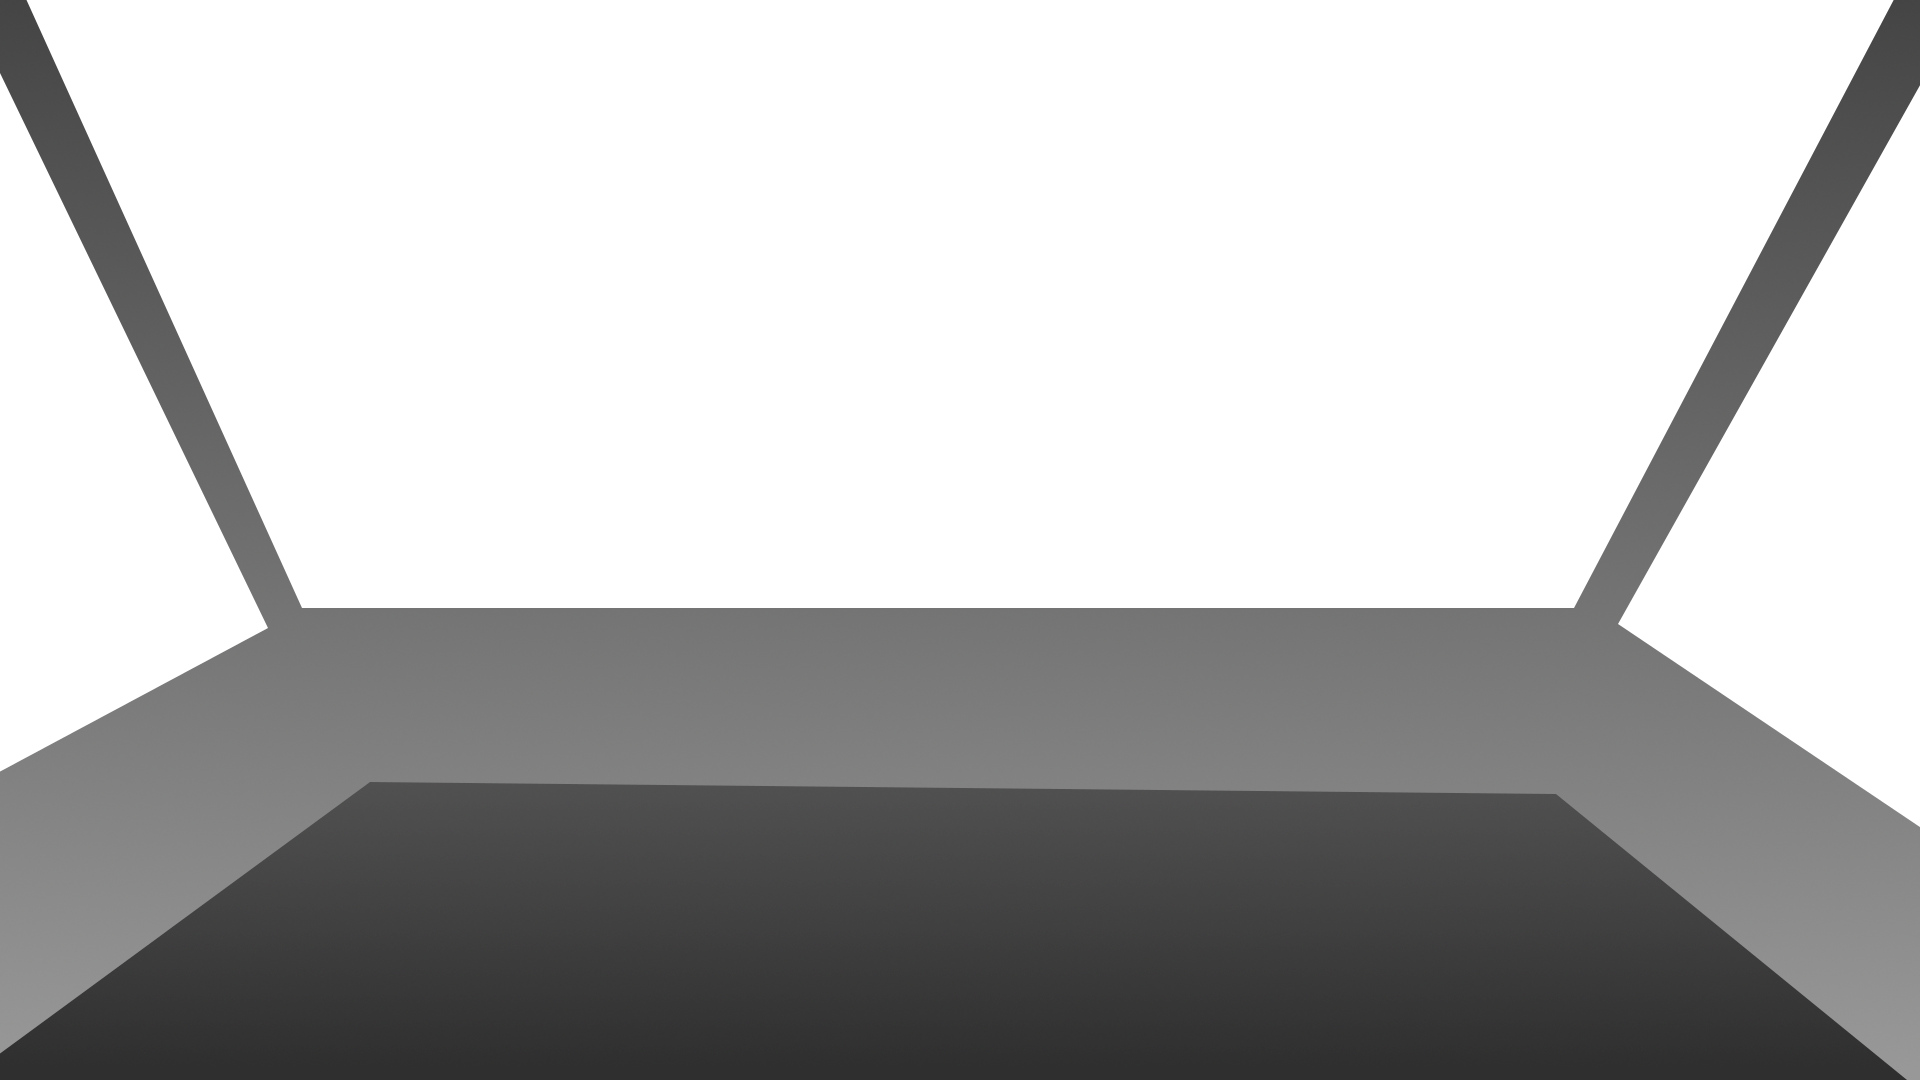
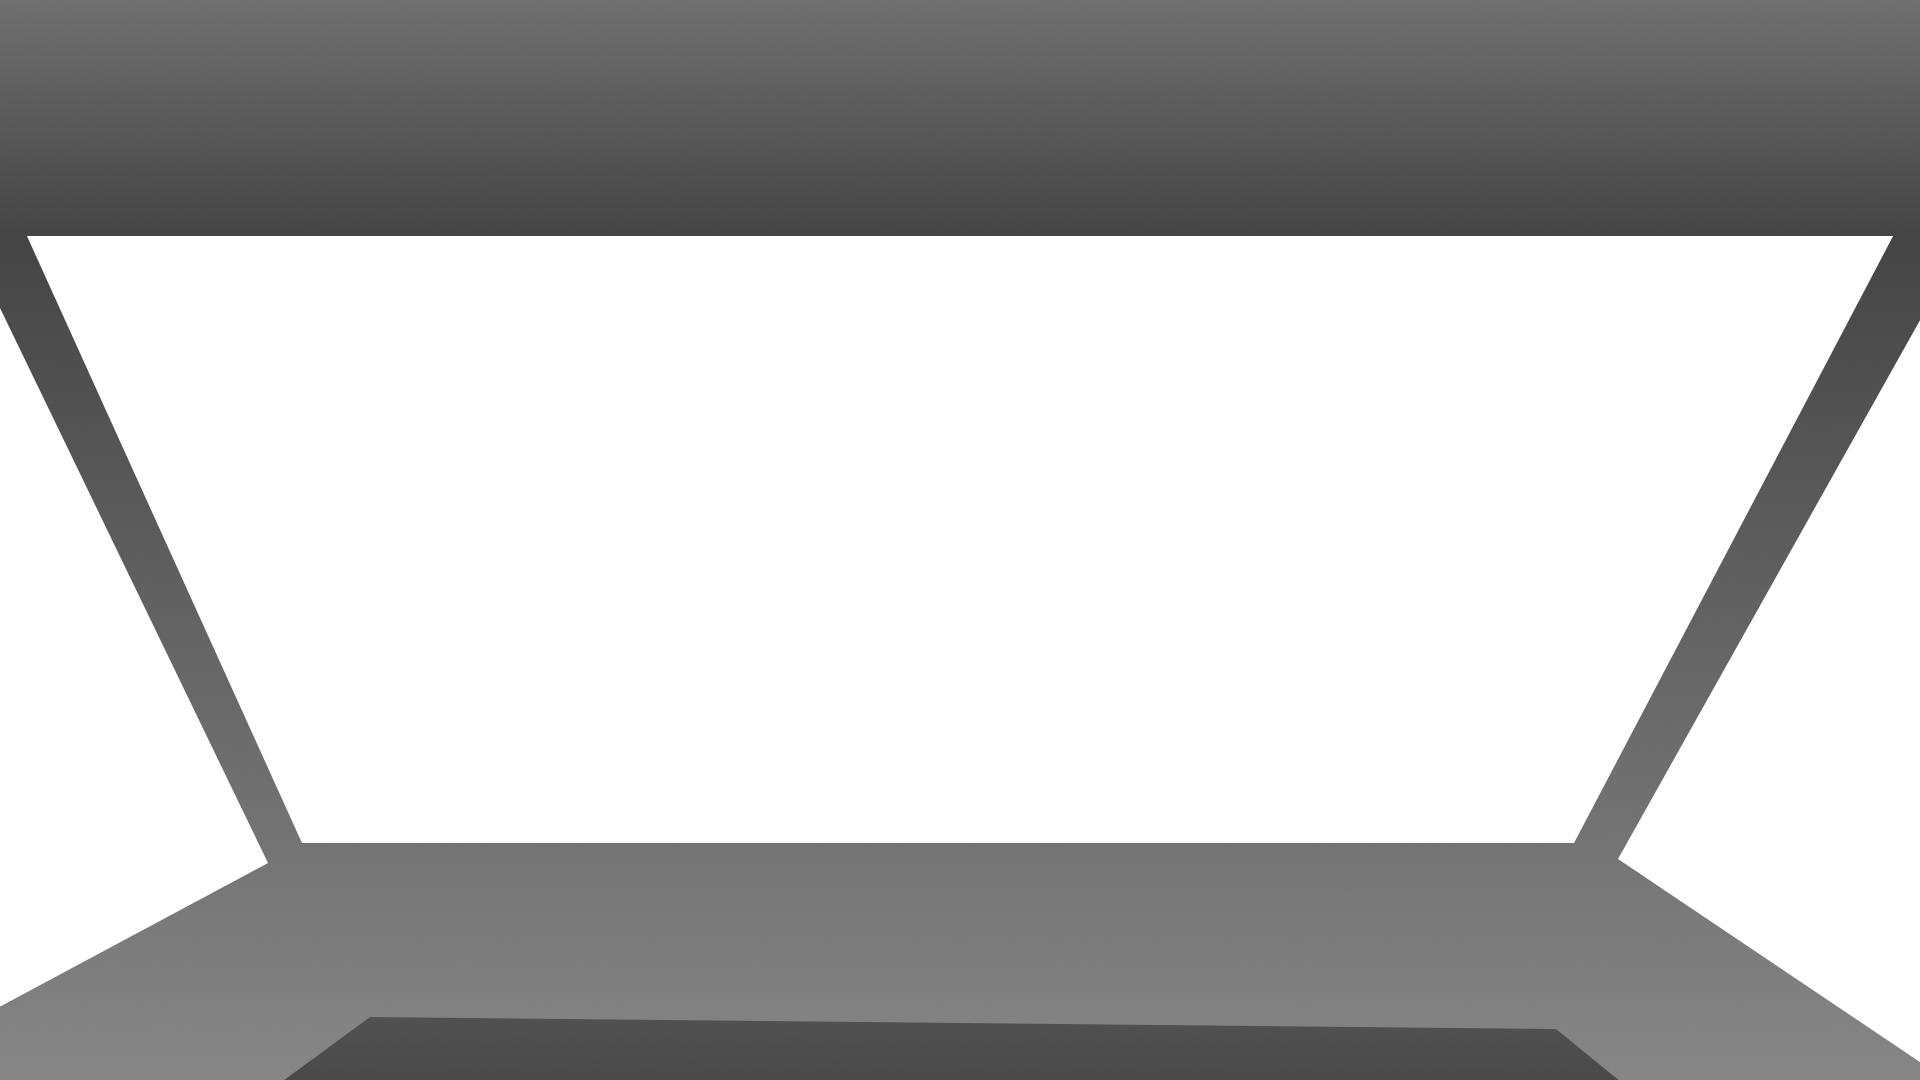
separating camera_glop and player_glop

diff --git a/kivyglops.py b/kivyglops.py
@@ -114,6 +114,19 @@ class KivyGlop(PyGlop, Widget):
         #self._scale_instruction.origin = self._pivot_point
         self._translate_instruction = Translate(0, 0, 0)
         self._color_instruction = Color(1.0, 1.0, 1.0, 1.0)  # TODO: eliminate this in favor of canvas["mat_diffuse_color"]
+    
+    def __str__(self):
+        return type(self) + " named " + str(self.name) + " at " + \
+               str(self._translate_instruction.xyz)
+
+    #"Called by the repr() built-in function to compute the "official"
+    # string representation of an object. If at all possible, this
+    # should look like a valid Python expression that could be used to
+    # recreate an object..."
+    #   - <https://docs.python.org/3/reference/datamodel.html#customization>
+    def __repr__(self):
+        return "KivyGlop(name=" + str(self.name) + ", location=" + \
+               str(self._translate_instruction.xyz) + ")"
 
     def copy(self):
         new_material_method = None
@@ -133,6 +146,34 @@ class KivyGlop(PyGlop, Widget):
         target._color_instruction = Color(self._color_instruction.r, self._color_instruction.g, self._color_instruction.b, self._color_instruction.a)
         return target
         
+    def rotate_camera_relative(self, angle, axis_index):
+        #TODO: delete this method and see solutions from http://stackoverflow.com/questions/10048018/opengl-camera-rotation
+        #such as set_view method of https://github.com/sgolodetz/hesperus2/blob/master/Shipwreck/MapEditor/GUI/Camera.java
+        self.rotate_relative_around_point(self.camera_glop, angle, axis_index, self.camera_glop._translate_instruction.x, self.camera_glop._translate_instruction.y, self.camera_glop._translate_instruction.z)
+
+    def rotate_player_relative(self, angle, axis_index):
+        #TODO: delete this method and see solutions from http://stackoverflow.com/questions/10048018/opengl-camera-rotation
+        #such as set_view method of https://github.com/sgolodetz/hesperus2/blob/master/Shipwreck/MapEditor/GUI/Camera.java
+        self.rotate_relative_around_point(self.player_glop, angle, axis_index, self.player_glop._translate_instruction.x, self.player_glop._translate_instruction.y, self.player_glop._translate_instruction.z)
+
+    def rotate_relative_around_point(self, this_glop, angle, axis_index, around_x, around_y, around_z):
+        if axis_index == 0:  #x
+            # += around_y * math.tan(angle)
+            this_glop._rotate_instruction_x.angle += angle
+            # origin_distance = math.sqrt(around_z*around_z + around_y*around_y)
+            # this_glop._translate_instruction.z += origin_distance * math.cos(-1*angle)
+            # this_glop._translate_instruction.y += origin_distance * math.sin(-1*angle)
+        elif axis_index == 1:  #y
+            this_glop._rotate_instruction_y.angle += angle
+            # origin_distance = math.sqrt(around_x*around_x + around_z*around_z)
+            # this_glop._translate_instruction.x += origin_distance * math.cos(-1*angle)
+            # this_glop._translate_instruction.z += origin_distance * math.sin(-1*angle)
+        else:  #z
+            #this_glop._translate_instruction.z += around_y * math.tan(angle)
+            this_glop._rotate_instruction_z.angle += angle
+            # origin_distance = math.sqrt(around_x*around_x + around_y*around_y)
+            # this_glop._translate_instruction.x += origin_distance * math.cos(-1*angle)
+            # this_glop._translate_instruction.y += origin_distance * math.sin(-1*angle)
 
     def new_glop(self):
         #return PyGlops.new_glop(self)
@@ -662,14 +703,14 @@ class KivyGlops(PyGlops):
         if self.player1_controller.get_pressed(self.ui.get_keycode("w")):
             if self._fly_enable:
                 #intentionally use z,y:
-                moving_z, moving_y = get_rect_from_polar_rad(1.0, self.camera_glop._rotate_instruction_x.angle)
+                moving_z, moving_y = get_rect_from_polar_rad(1.0, self.player_glop._rotate_instruction_x.angle)
             else:
                 moving_z = 1.0
 
         if self.player1_controller.get_pressed(self.ui.get_keycode("s")):
             if self._fly_enable:
                 #intentionally use z,y:
-                moving_z, moving_y = get_rect_from_polar_rad(1.0, self.camera_glop._rotate_instruction_x.angle)
+                moving_z, moving_y = get_rect_from_polar_rad(1.0, self.player_glop._rotate_instruction_x.angle)
                 moving_z *= -1.0
                 moving_y *= -1.0
             else:
@@ -938,7 +979,7 @@ class KivyGlops(PyGlops):
 
         #modelViewMatrix = modelViewMatrix.look_at(0,self.camera_glop._translate_instruction.y,0, self.look_point[0], self.look_point[1], self.look_point[2], 0, 1, 0)
 
-        #Since what you are looking at should be relative to yourself, add camera's position:
+        #Since camera's target should be relative to camera, add camera's position:
 
         self.look_point[0] += self.camera_glop._translate_instruction.x
         self.look_point[1] += self.camera_glop._translate_instruction.y
@@ -1172,15 +1213,15 @@ class KivyGlopsWindow(ContainerForm):  # formerly a subclass of Widget
 
 
     def inventory_prev_button_press(self, instance):
-        event_dict = self.scene.camera_glop.select_next_inventory_slot(False)
+        event_dict = self.scene.player_glop.select_next_inventory_slot(False)
         self.scene.after_selected_item(event_dict)
 
     def inventory_use_button_press(self, instance):
-        event_dict = self.scene.use_selected(self.scene.camera_glop)
+        event_dict = self.scene.use_selected(self.scene.player_glop)
         #self.scene.after_selected_item(event_dict)
 
     def inventory_next_button_press(self, instance):
-        event_dict = self.scene.camera_glop.select_next_inventory_slot(True)
+        event_dict = self.scene.player_glop.select_next_inventory_slot(True)
         self.scene.after_selected_item(event_dict)
 
 
@@ -1289,6 +1330,7 @@ class KivyGlopsWindow(ContainerForm):  # formerly a subclass of Widget
 
         if self.scene.env_rectangle is not None:
             if self.screen_w_arc_theta is not None and self.screen_h_arc_theta is not None:
+                #then calculate environment mapping variables
                 #region old way (does not repeat)
                 #env_h_ratio = (2 * math.pi) / self.screen_h_arc_theta
                 #env_w_ratio = env_h_ratio * math.pi
@@ -1382,12 +1424,12 @@ class KivyGlopsWindow(ContainerForm):  # formerly a subclass of Widget
         if touch.is_mouse_scrolling:
             event_dict = None
             if touch.button == "scrolldown":
-                event_dict = self.scene.camera_glop.select_next_inventory_slot(True)
+                event_dict = self.scene.player_glop.select_next_inventory_slot(True)
             else:
-                event_dict = self.scene.camera_glop.select_next_inventory_slot(False)
+                event_dict = self.scene.player_glop.select_next_inventory_slot(False)
             self.scene.after_selected_item(event_dict)
         else:
-            event_dict = self.scene.use_selected(self.scene.camera_glop)
+            event_dict = self.scene.use_selected(self.scene.player_glop)
 
     def on_touch_up(self, touch):
         super(KivyGlopsWindow, self).on_touch_up(touch)
@@ -1410,9 +1452,9 @@ class KivyGlopsWindow(ContainerForm):  # formerly a subclass of Widget
         if keycode[1] == 'escape':
             pass  #keyboard.release()
         # elif keycode[1] == 'w':
-        #     self.scene.camera_glop._translate_instruction.z += self.camera_walk_units_per_frame
+        #     self.scene.player_glop._translate_instruction.z += self.camera_walk_units_per_frame
         # elif keycode[1] == 's':
-        #     self.scene.camera_glop._translate_instruction.z -= self.camera_walk_units_per_frame
+        #     self.scene.player_glop._translate_instruction.z -= self.camera_walk_units_per_frame
         # elif text == 'a':
         #     self.scene.player1_controller["left"] = True
         #     self.moving_x = -1.0
@@ -1438,10 +1480,10 @@ class KivyGlopsWindow(ContainerForm):  # formerly a subclass of Widget
             else:
                 print('Select glop failed (maybe there are no glops loaded.')
         elif keycode[1] == "x":
-            event_dict = self.scene.camera_glop.select_next_inventory_slot(True)
+            event_dict = self.scene.player_glop.select_next_inventory_slot(True)
             self.scene.after_selected_item(event_dict)
         elif keycode[1] == "z":
-            event_dict = self.scene.camera_glop.select_next_inventory_slot(False)
+            event_dict = self.scene.player_glop.select_next_inventory_slot(False)
             self.scene.after_selected_item(event_dict)
         elif keycode[1] == "f3":
             self.toggle_visual_debug()

diff --git a/pyglops.py b/pyglops.py
@@ -556,20 +556,21 @@ class PyGlop:
                 result = True
                 break
         return result
-
+    
+    #your program can override this method for custom inventory layout
     def push_item(self, item_dict):
         select_item_event_dict = dict()
-        select_item_event_dict["is_possible"] = False
+        select_item_event_dict["is_possible"] = False  # stays false if inventory was full
         for i in range(0,len(self.properties["inventory_items"])):
             if self.properties["inventory_items"][i] is None or self.properties["inventory_items"][i]["name"] == EMPTY_ITEM["name"]:
                 self.properties["inventory_items"][i] = item_dict
                 select_item_event_dict["is_possible"] = True
-                #print("obtained item in slot "+str(i)+": "+str(item_dict))
+                print("[ debug only ] obtained item in slot "+str(i)+": "+str(item_dict))
                 break
         if self.infinite_inventory_enable:
             if not select_item_event_dict["is_possible"]:
                 self.properties["inventory_items"].append(item_dict)
-                #print("obtained item in new slot: "+str(item_dict))
+                print("[ debug only ] obtained item in new slot: "+str(item_dict))
                 select_item_event_dict["is_possible"] = True
         if select_item_event_dict["is_possible"]:
             if self.properties["inventory_index"] < 0:
@@ -1487,6 +1488,9 @@ class PyGlops:
         self._bumper_indices = []
         self._bumpable_indices = []
         
+    def __str__(self):
+        return type(self)+" named "+str(self.name)+" at "+str(self.get_location)
+        
     # camera does not move automatically (you may move it yourself)
     def CAMERA_FREE(self):
         return 0
@@ -1647,11 +1651,11 @@ class PyGlops:
                 else:
                     if item_event is not None:
                         if "is_possible" in item_event:
-                            print("ERROR: Nothing done in add_actor_weapon {is_possible: " + str(item_event["is_possible"]+"}")
+                            print("NOTICE: Nothing done for item_push since presumably, "+str(self.glops[glop_index].name)+"'s inventory was full {is_possible: " + str(item_event["is_possible"]+"}"))
                         else:
                             print("ERROR: Nothing done in add_actor_weapon {is_possible: None}")
                     else:
-                        
+                        print("WARNING: item_event returned by push_item was None")
                 #print("add_actor_weapon: using "+str(self.glops[indices[i]].name)+" as sprite.")
             for i in range(0,len(indices)):
                 self.hide_glop(self.glops[indices[i]])
@@ -1854,30 +1858,6 @@ class PyGlops:
             print("Could not finish a wobject in load_obj while "+participle+" on line "+str(linePlus1)+":")
             view_traceback()
         return results
-
-    def rotate_view_relative(self, angle, axis_index):
-        #TODO: delete this method and see solutions from http://stackoverflow.com/questions/10048018/opengl-camera-rotation
-        #such as set_view method of https://github.com/sgolodetz/hesperus2/blob/master/Shipwreck/MapEditor/GUI/Camera.java
-        self.rotate_view_relative_around_point(angle, axis_index, self.camera_glop._translate_instruction.x, self.camera_glop._translate_instruction.y, self.camera_glop._translate_instruction.z)
-
-    def rotate_view_relative_around_point(self, angle, axis_index, around_x, around_y, around_z):
-        if axis_index == 0:  #x
-            # += around_y * math.tan(angle)
-            self.camera_glop._rotate_instruction_x.angle += angle
-            # origin_distance = math.sqrt(around_z*around_z + around_y*around_y)
-            # self.camera_glop._translate_instruction.z += origin_distance * math.cos(-1*angle)
-            # self.camera_glop._translate_instruction.y += origin_distance * math.sin(-1*angle)
-        elif axis_index == 1:  #y
-            self.camera_glop._rotate_instruction_y.angle += angle
-            # origin_distance = math.sqrt(around_x*around_x + around_z*around_z)
-            # self.camera_glop._translate_instruction.x += origin_distance * math.cos(-1*angle)
-            # self.camera_glop._translate_instruction.z += origin_distance * math.sin(-1*angle)
-        else:  #z
-            #self.camera_glop._translate_instruction.z += around_y * math.tan(angle)
-            self.camera_glop._rotate_instruction_z.angle += angle
-            # origin_distance = math.sqrt(around_x*around_x + around_y*around_y)
-            # self.camera_glop._translate_instruction.x += origin_distance * math.cos(-1*angle)
-            # self.camera_glop._translate_instruction.y += origin_distance * math.sin(-1*angle)
 
     def axis_index_to_string(self,index):
         result = "unknown axis"

diff --git a/README.md b/README.md
@@ -12,6 +12,7 @@ Control 3D objects and the camera in your 3D Kivy app!
 * Triangulates (tesselates) obj input manually
 
 ## Changes
+* (2017-12-21) split `rotate_view_relative` into `rotate_camera_relative` and `rotate_player_relative`; moved them to KivyGlops since they use Kivy OpenGL instructions; renamed rotate_view_relative_around_point to rotate_relative_around_point and forces you to specify a glop as first parameter (still needs to be edited in major way to rotate around the point instead of assuming things about the object)
 * (2017-12-21) fix issue where add_actor_weapon uses player_glop instead of the glop referenced by the glop_index param (bug was exposed by camera_glop and player_glop being separated)
 * (2017-12-21) separated player_glop from camera_glop (see PyGlops __init__) and keys now move player instead of camera (if most recent param sent to self.set_camera_person was self.CAMERA_FIRST_PERSON(), which is done by default)
 * (2017-12-21) (fixed issue introduced by refactoring) translate instruction should be copied by value not reference for glop
@@ -62,32 +63,35 @@ Control 3D objects and the camera in your 3D Kivy app!
 
 
 ## Known Issues
+* add touch inventory (such as tap to use, drag to change selected item)
+* add touch joystick (drag to tilt joystick to dolly or strafe--optionally start at "forward" position)
+* cache heightmap for each walkmesh as y-buffer (y is up; load from cache instead of recomputing if date >= source mesh file)
+    * If was 64-bit (8bytes per fragment) 8 * 8192 * 8192 /1024/1024 = 512 MB
+    * If was 32-bit (4bytes per fragment) 4 * 8192 * 8192 /1024/1024 = 256 MB
+    * If was 16-bit (2bytes per fragment) 2 * 8192 * 8192 /1024/1024 = 128 MB
+    * If was 16-bit (2bytes per fragment) 2 * 4096 * 4096 /1024/1024 = 32 MB
+    * (as an unrelated performance comparison, an alpha lookup table is 256*256*256 /1024/1024 = 16 MB)
 * fired sprite should stay facing camera (as add_actor_weapon sets look_target_glop)
 * deal with situation-dependent members when saving glop:
     * `look_target_glop` which is a reference and for that reason copied by ref
     * `weapon_dict["fires_glops"]` which may be runtime-generated mesh such as texture on square mesh (or "meshes/sprite-square.obj")
-* add the following code to expertmultimedia.com boundary detection lesson since was removed from KivyGlops __init__ (or add after call to update_glops??):
-  ```
-        #This is done axis by axis--the only reason is so that you can do OpenGL boundary detection lesson from expertmultimedia.com starting with this file
-        if self.world_boundary_min[0] is not None:
-            if self.player_glop._translate_instruction.x < self.world_boundary_min[0]:
-                self.player_glop._translate_instruction.x = self.world_boundary_min[0]
-        if self.world_boundary_min[1] is not None:
-            if self.player_glop._translate_instruction.y < self.world_boundary_min[1]: #this is done only for this axis, just so that you can do OpenGL 6 lesson using this file (boundary detection)
-                self.player_glop._translate_instruction.y = self.world_boundary_min[1]
-        if self.world_boundary_min[2] is not None:
-            if self.player_glop._translate_instruction.z < self.world_boundary_min[2]: #this is done only for this axis, just so that you can do OpenGL 6 lesson using this file (boundary detection)
-                self.player_glop._translate_instruction.z = self.world_boundary_min[2]
-
-  ```
+* Add the following code to expertmultimedia.com boundary detection lesson since was removed from KivyGlops __init__ (or add after call to update_glops??):
+  ```This is done axis by axis--the only reason is so that you can do OpenGL boundary detection lesson from expertmultimedia.com starting with this file
+    if self.world_boundary_min[0] is not None:
+        if self.player_glop._translate_instruction.x < self.world_boundary_min[0]:
+            self.player_glop._translate_instruction.x = self.world_boundary_min[0]
+    if self.world_boundary_min[1] is not None:
+        if self.player_glop._translate_instruction.y < self.world_boundary_min[1]: #this is done only for this axis, just so that you can do OpenGL 6 lesson using this file (boundary detection)
+            self.player_glop._translate_instruction.y = self.world_boundary_min[1]
+    if self.world_boundary_min[2] is not None:
+        if self.player_glop._translate_instruction.z < self.world_boundary_min[2]: #this is done only for this axis, just so that you can do OpenGL 6 lesson using this file (boundary detection)
+            self.player_glop._translate_instruction.z = self.world_boundary_min[2]```
 * eventually remove projectiles (though pop method of list takes from left, change _bumpable_indices to a deque for better pop performance):
   ```
   from collections import deque
   >>> l = deque(['a', 'b', 'c', 'd'])
-  >>> l.popleft()
-
-  ```
-* resource license compatibility should be checked against original resource licenses
+  >>> l.popleft()```
+* resource license: compatibility should be checked against original resource licenses
 * vertex normals should supercede smoothing groups (which are based on faces) according to the obj format spec, but I'm not sure why since that would accomplish nothing since normals are blended across faces on OpenGL ES 2+
 * implement vendor-specific commands at end of OBJ file (see wobjfile.py vs "Vendor specific alterations" section of <https://en.wikipedia.org/wiki/Wavefront_.obj_file>)
 * implement Clara.io PBR extensions to OBJ format (see wobjfile.py vs "Physically-based Rendering" section of <https://en.wikipedia.org/wiki/Wavefront_.obj_file>)
@@ -159,6 +163,7 @@ uniform mat4 modelview_mat;  //derived from self.canvas["modelview_mat"] = model
 uniform mat4 projection_mat;  //derived from self.canvas["projection_mat"] = projectionMatrix
 
 ## Developer Notes
+* is_possible entry in item_event dict returned by push_item denotes whether giving an item to the player was possible (false if inventory was full on games with limited inventory)
 * if you get a stack overflow, maybe one of the dict objects you put on an object contains a reference to the same object then copy or deepcopy_with_my_type was called
 * ui is usually a KivyGlopsWindow but could be other frameworks. Must have:
         width
